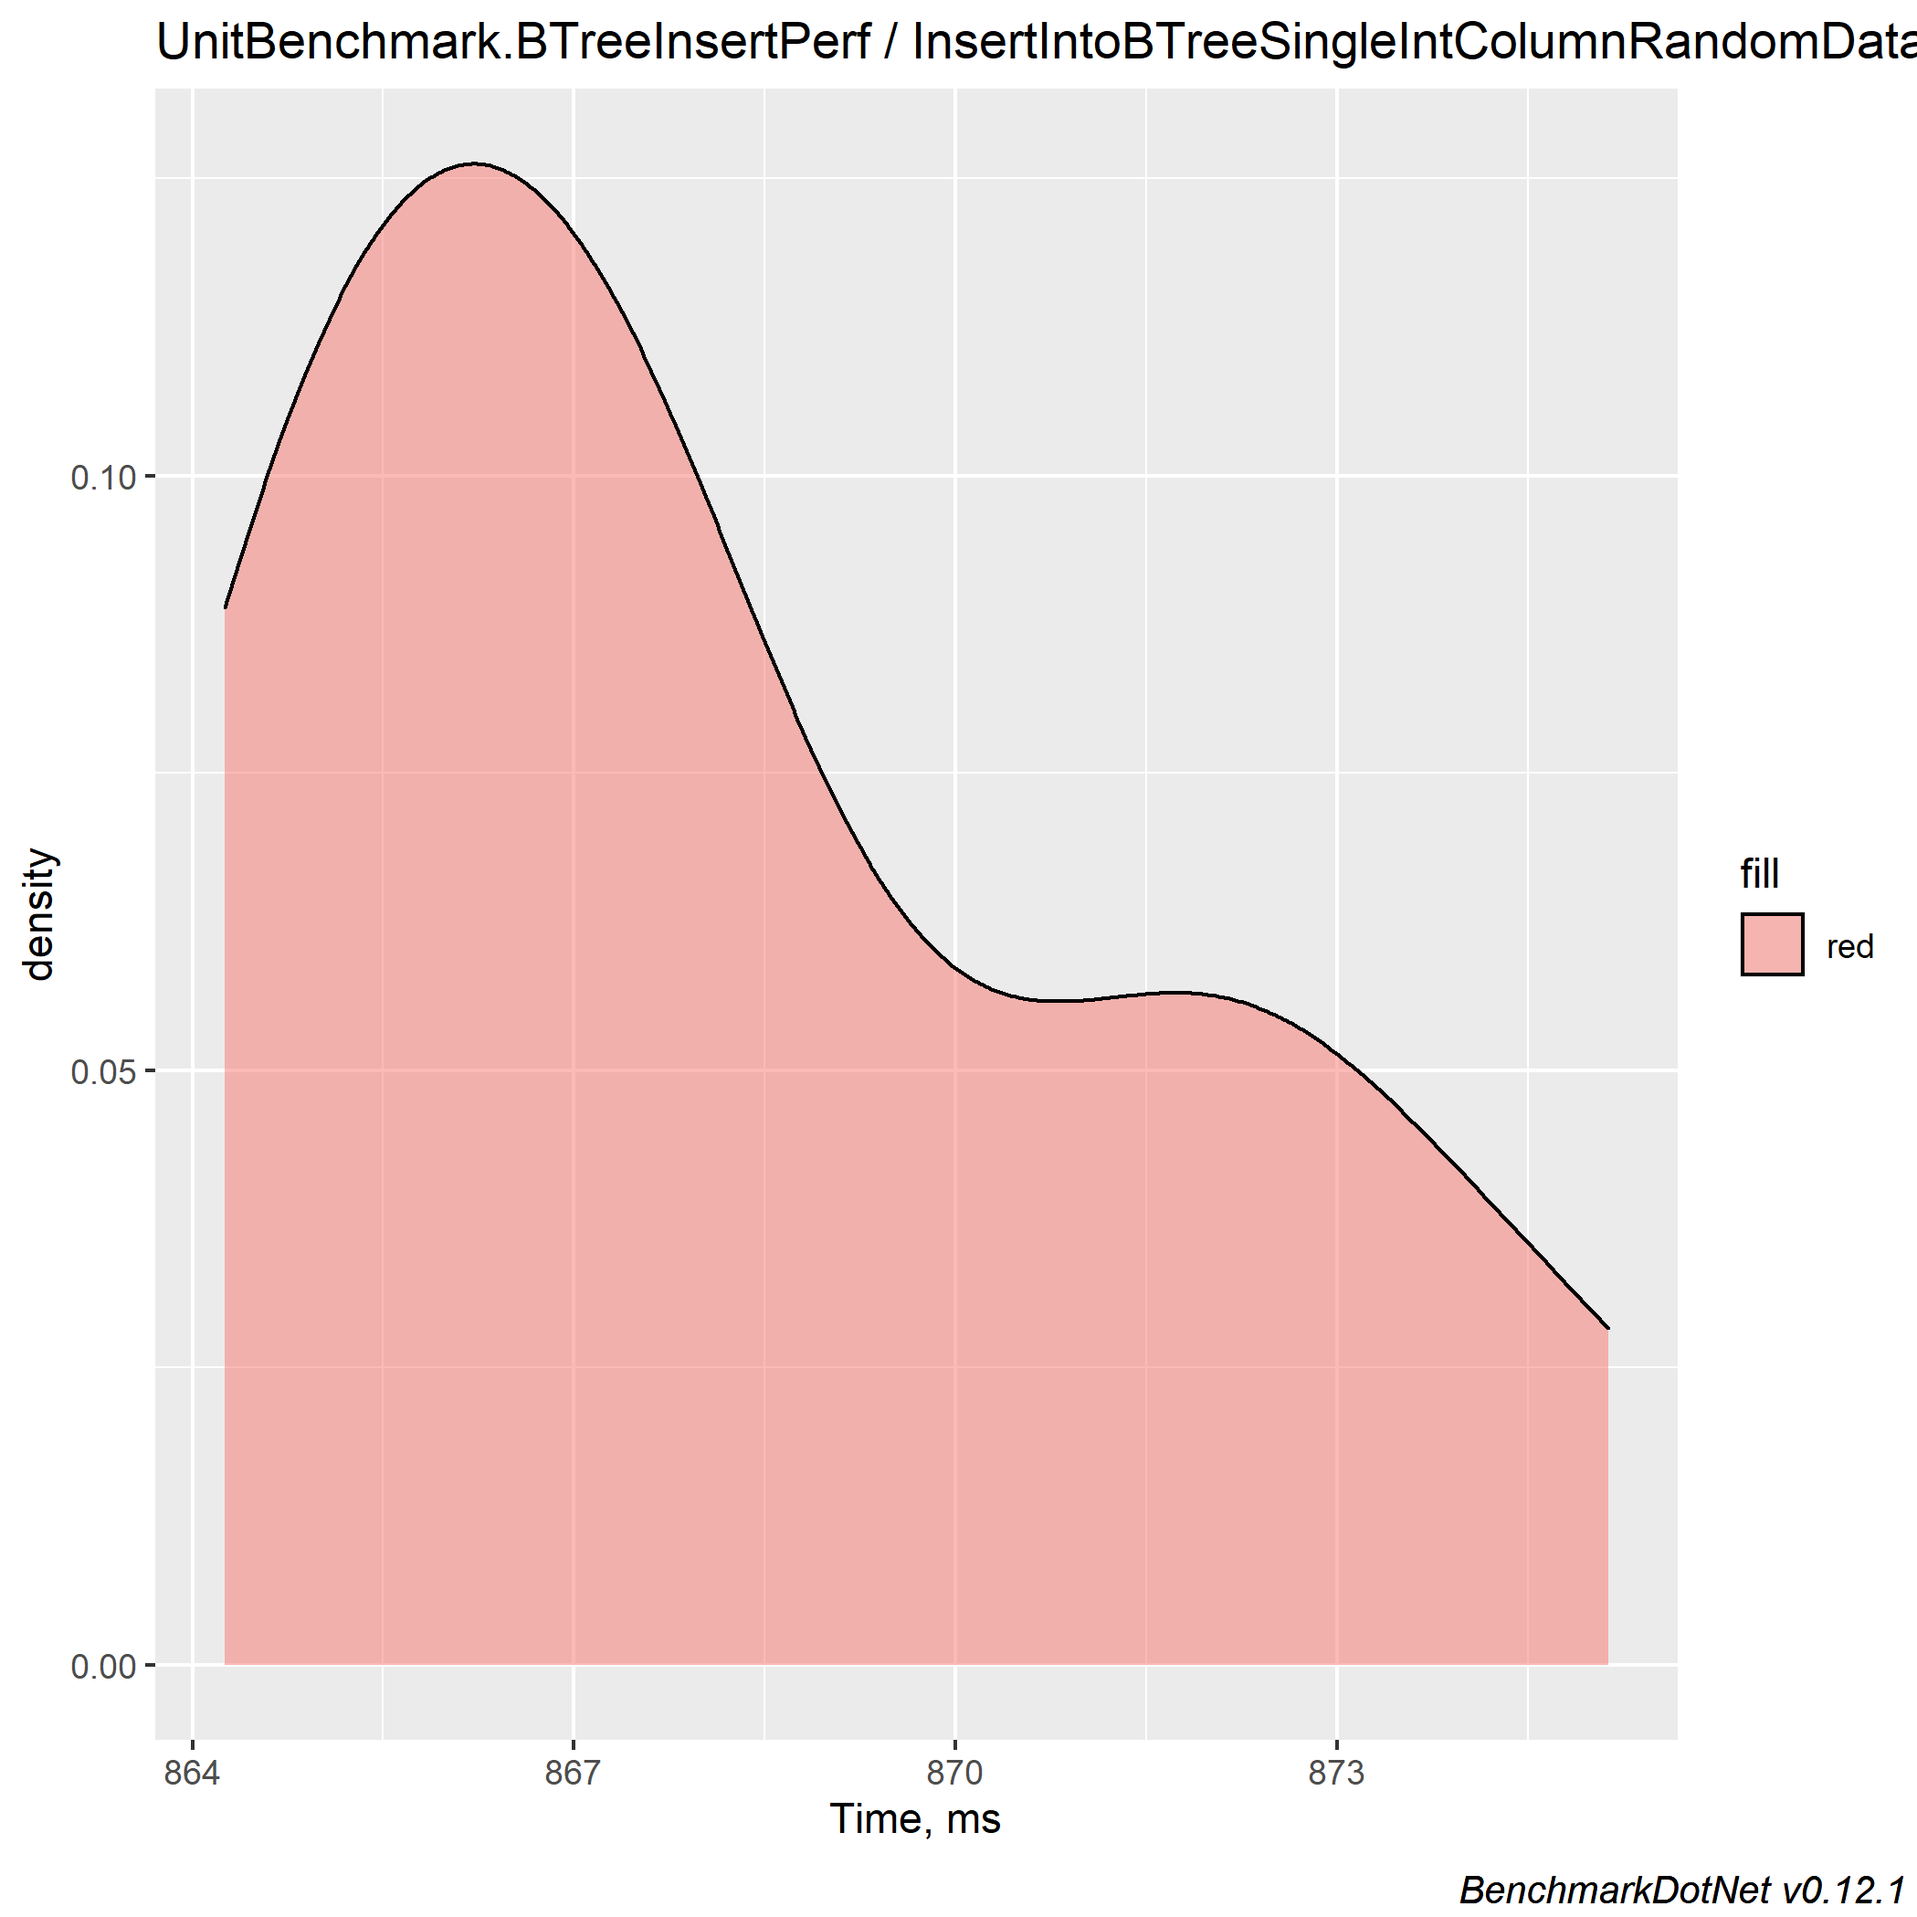
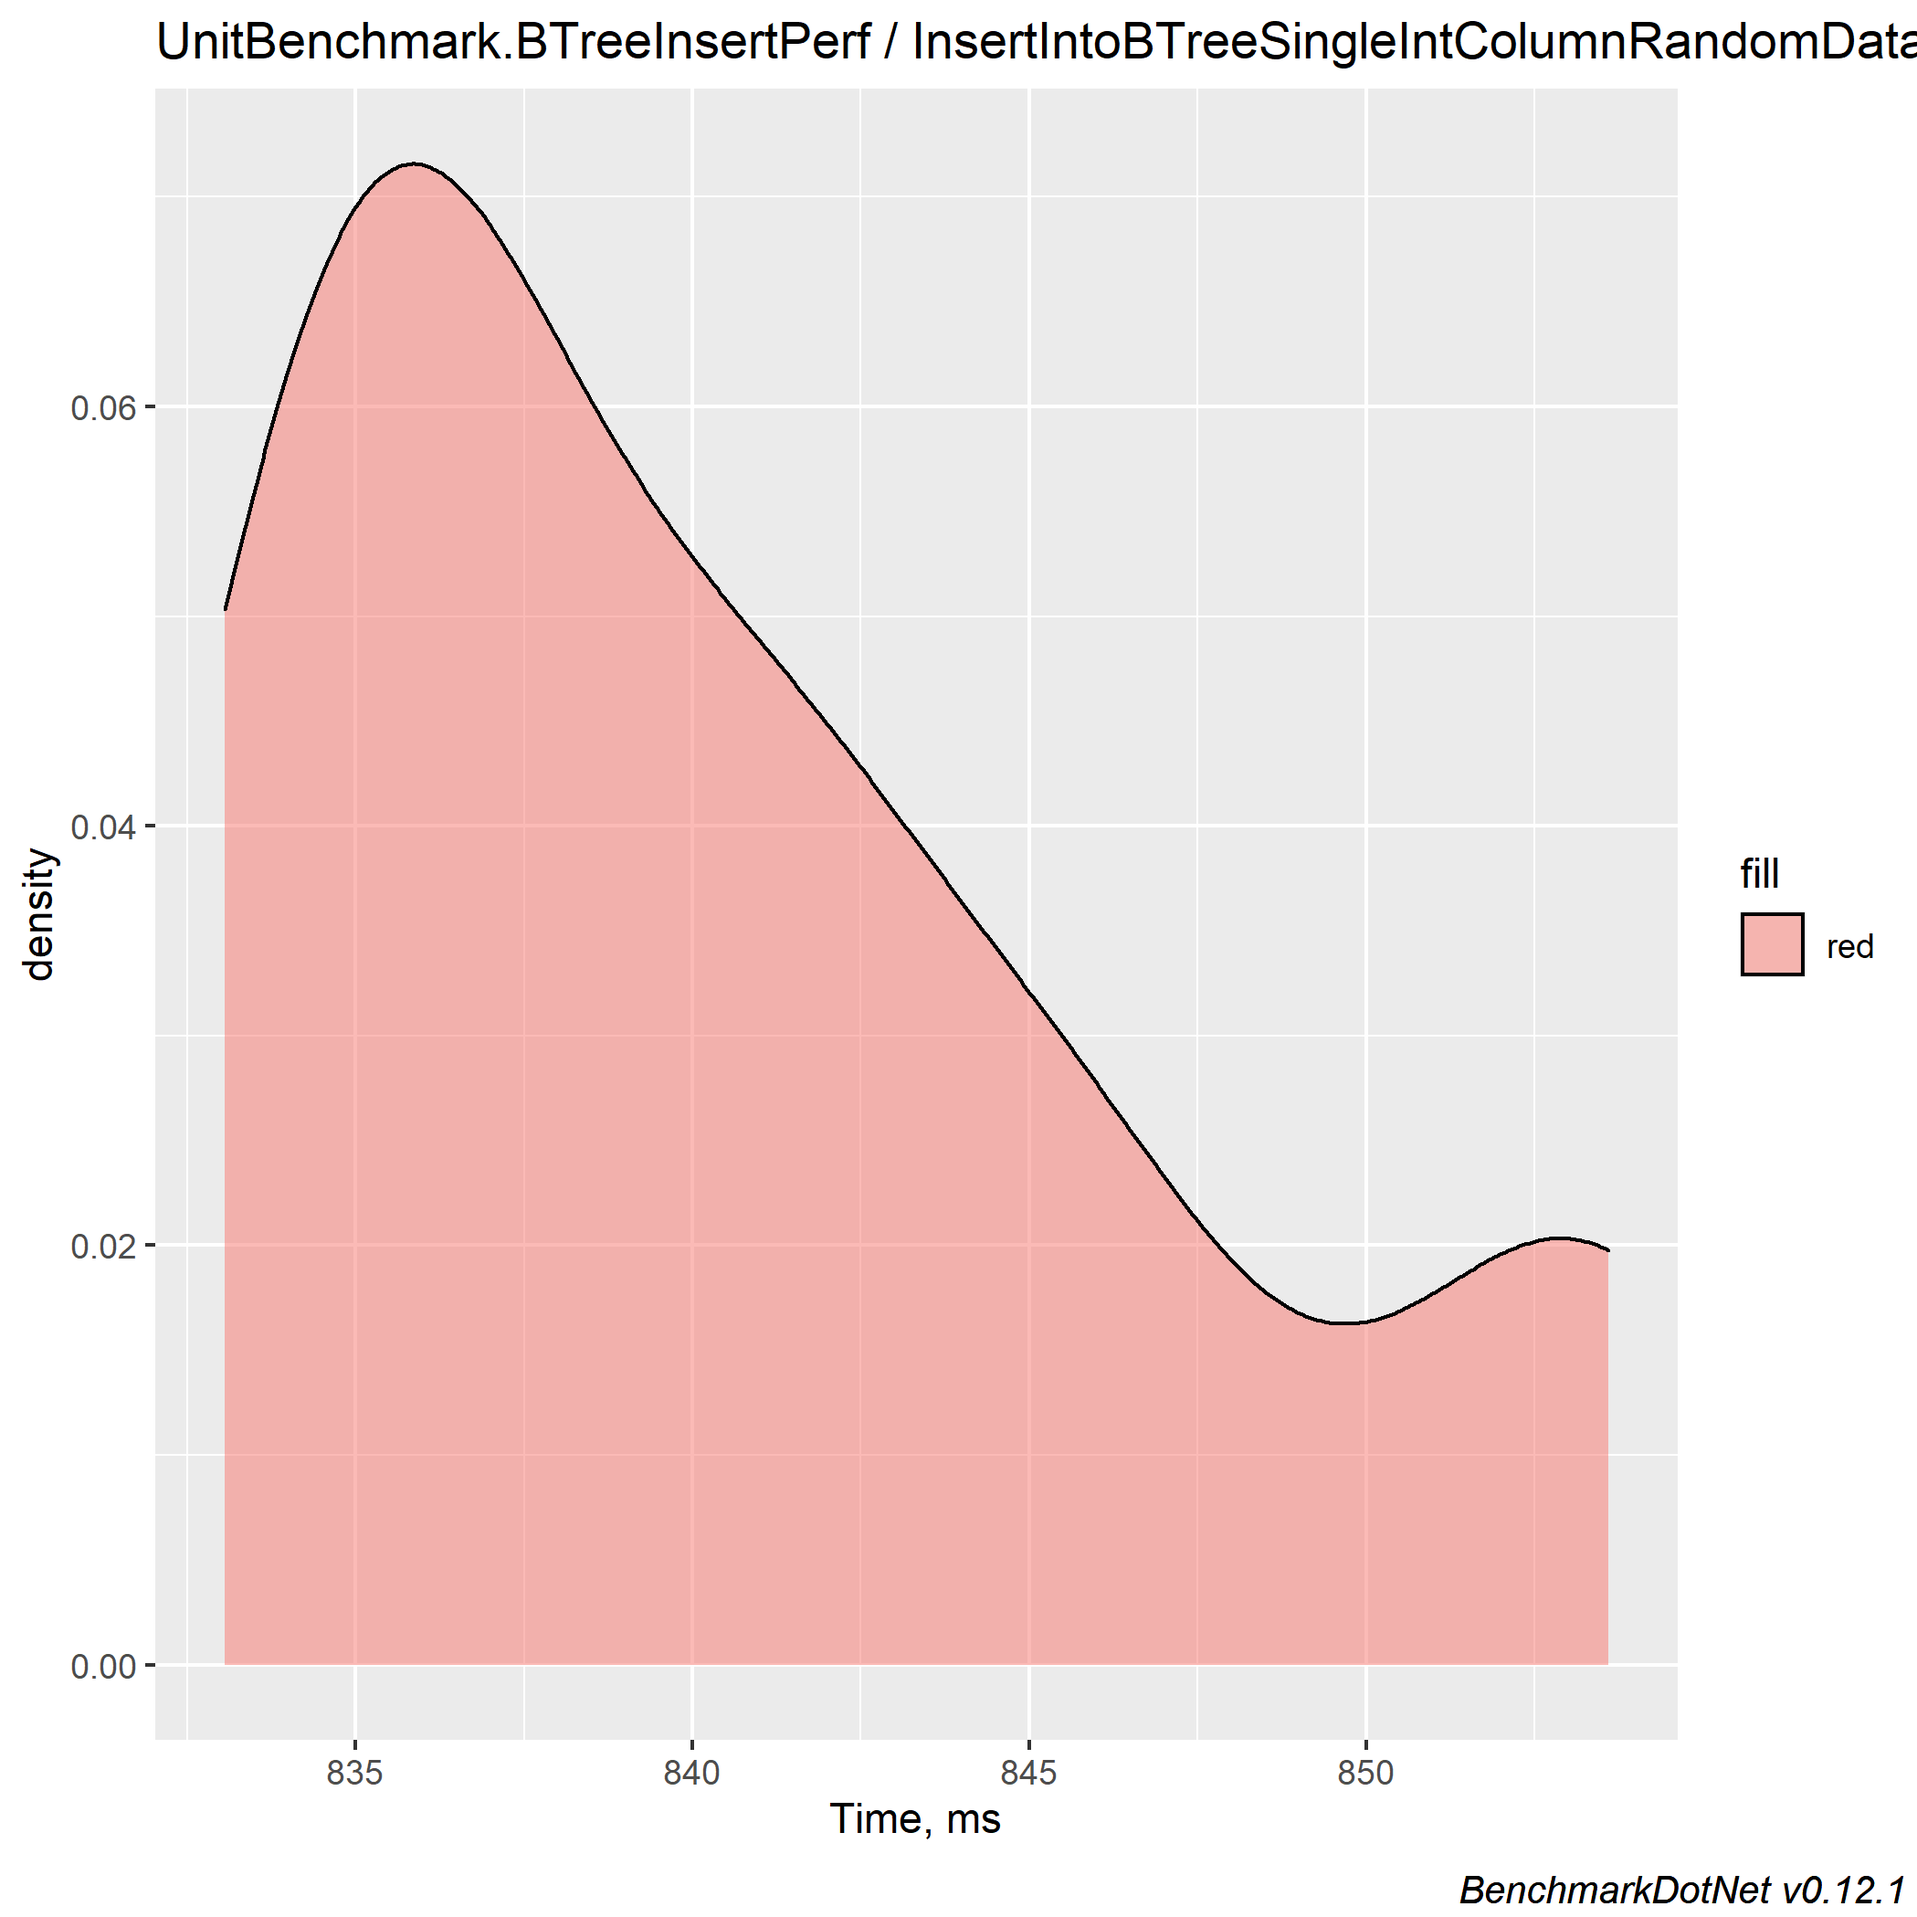
adding new flame graph

diff --git a/UnitBenchmark/BenchmarkDotNet.Artifacts/results/UnitBenchmark.BTreeInsertPerf-report.html b/UnitBenchmark/BenchmarkDotNet.Artifacts/results/UnitBenchmark.BTreeInsertPerf-report.html
@@ -2,7 +2,7 @@
 <html lang='en'>
 <head>
 <meta charset='utf-8' />
-<title>UnitBenchmark.BTreeInsertPerf-20211212-161400</title>
+<title>UnitBenchmark.BTreeInsertPerf-20211212-162004</title>
 
 <style type="text/css">
 	table { border-collapse: collapse; display: block; width: 100%; overflow: auto; }
@@ -24,9 +24,9 @@ AMD Ryzen 5 1600X, 1 CPU, 12 logical and 6 physical cores
 <table>
 <thead><tr><th>                            Method</th><th>RowsInTableNumber</th><th>Mean</th><th>Error</th><th>StdDev</th>
 </tr>
-</thead><tbody><tr><td>InsertIntoBTreeSingleIntColumnRandomData</td><td>50000</td><td>134.7 ms</td><td>2.15 ms</td><td>2.21 ms</td>
-</tr><tr><td>InsertIntoBTreeSingleIntColumnRandomData</td><td>100000</td><td>315.2 ms</td><td>5.77 ms</td><td>5.12 ms</td>
-</tr><tr><td>InsertIntoBTreeSingleIntColumnRandomData</td><td>200000</td><td>868.2 ms</td><td>3.62 ms</td><td>3.39 ms</td>
+</thead><tbody><tr><td>InsertIntoBTreeSingleIntColumnRandomData</td><td>50000</td><td>128.7 ms</td><td>0.90 ms</td><td>0.75 ms</td>
+</tr><tr><td>InsertIntoBTreeSingleIntColumnRandomData</td><td>100000</td><td>317.5 ms</td><td>4.82 ms</td><td>4.51 ms</td>
+</tr><tr><td>InsertIntoBTreeSingleIntColumnRandomData</td><td>200000</td><td>840.5 ms</td><td>6.95 ms</td><td>6.50 ms</td>
 </tr></tbody></table>
 </body>
 </html>

diff --git a/UnitBenchmark/BenchmarkDotNet.Artifacts/results/UnitBenchmark.BTreeInsertPerf-report-github.md b/UnitBenchmark/BenchmarkDotNet.Artifacts/results/UnitBenchmark.BTreeInsertPerf-report-github.md
@@ -10,6 +10,6 @@ AMD Ryzen 5 1600X, 1 CPU, 12 logical and 6 physical cores
 ```
 |                                   Method | RowsInTableNumber |     Mean |   Error |  StdDev |
 |----------------------------------------- |------------------ |---------:|--------:|--------:|
-| **InsertIntoBTreeSingleIntColumnRandomData** |             **50000** | **134.7 ms** | **2.15 ms** | **2.21 ms** |
-| **InsertIntoBTreeSingleIntColumnRandomData** |            **100000** | **315.2 ms** | **5.77 ms** | **5.12 ms** |
-| **InsertIntoBTreeSingleIntColumnRandomData** |            **200000** | **868.2 ms** | **3.62 ms** | **3.39 ms** |
+| **InsertIntoBTreeSingleIntColumnRandomData** |             **50000** | **128.7 ms** | **0.90 ms** | **0.75 ms** |
+| **InsertIntoBTreeSingleIntColumnRandomData** |            **100000** | **317.5 ms** | **4.82 ms** | **4.51 ms** |
+| **InsertIntoBTreeSingleIntColumnRandomData** |            **200000** | **840.5 ms** | **6.95 ms** | **6.50 ms** |

diff --git a/UnitBenchmark/perf_diary/btree_perf_story.md b/UnitBenchmark/perf_diary/btree_perf_story.md
@@ -146,3 +146,10 @@ After insert with binary search:
 | InsertIntoBTreeSingleIntColumnRandomData |             50000 | 134.7 ms | 2.15 ms | 2.21 ms |
 | InsertIntoBTreeSingleIntColumnRandomData |            100000 | 315.2 ms | 5.77 ms | 5.12 ms |
 | InsertIntoBTreeSingleIntColumnRandomData |            200000 | 868.2 ms | 3.62 ms | 3.39 ms |
+
+At this point btree specific code is no longer top hitter on the flame graph:
+
+![](flame_graph_v3.JPG)
+
+At this point we wil need to optimize usage recorder in page manager. All in all we need ~5x improvement and we still have a chance to get a boost from concurrency.
+1M inserts per seconds seems pretty tangible. 
